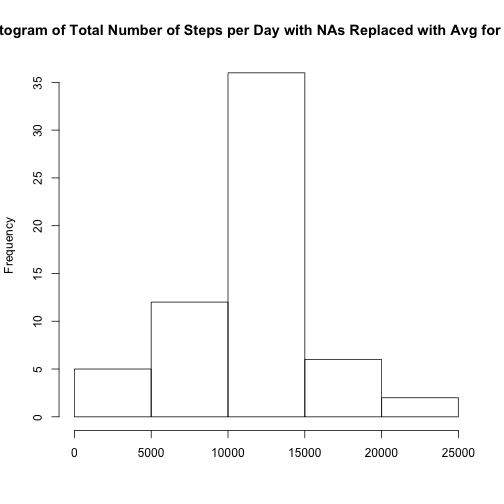
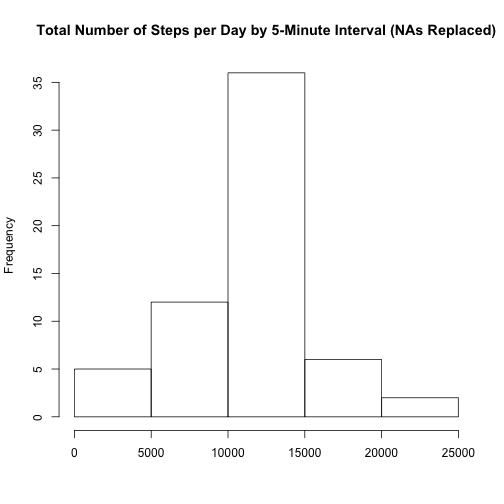
Clean up comments and histogram title.

Changed region(s): [[0.0, 0.0298, 1.0, 0.0893]]

diff --git a/PA1_template.html b/PA1_template.html
@@ -185,7 +185,6 @@ hljs.initHighlightingOnLoad();
 
 <pre><code class="r">options(scipen = 1, digits = 7)
 library(data.table)
-#data &lt;- read.csv(unzip(&quot;activity.zip&quot;))
 data &lt;- read.csv(&quot;activity.csv&quot;)
 data$day &lt;- as.Date(data$date, &quot;%Y-%m-%d&quot;)
 data$weekday &lt;- weekdays(data$day)
@@ -205,8 +204,7 @@ dt.clean &lt;- na.omit(dt)
 
 <p>Sum the steps for each day.</p>
 
-<pre><code class="r">#total.steps.by.day &lt;- tapply(data.noNA$steps, data.noNA$date, sum)
-total.steps.by.day &lt;- dt.clean[,sum(steps), by=date]
+<pre><code class="r">total.steps.by.day &lt;- dt.clean[,sum(steps), by=date]
 </code></pre>
 
 <p>Create a histogram of the mean number of steps per day.</p>
@@ -236,8 +234,7 @@ total.steps.by.day &lt;- dt.clean[,sum(steps), by=date]
 
 <p>Take the average number of steps by the interval across days.</p>
 
-<pre><code class="r">#steps.by.daily.interval &lt;- aggregate(steps ~ interval, data.noNA, FUN=&quot;mean&quot;)
-steps.by.daily.interval &lt;- dt.clean[,mean(steps), by=interval]
+<pre><code class="r">steps.by.daily.interval &lt;- dt.clean[,mean(steps), by=interval]
 with(steps.by.daily.interval, plot(interval, V1, type=&quot;l&quot;, 
                                    main=&quot;Average Daily Activity Pattern&quot;, 
                                    xlab=&quot;Interval (5 minute increment)&quot;,
@@ -280,10 +277,10 @@ total.steps.2 &lt;- dt.with.avg[,sum(steps), by=date]
 
 <p>Histogram with the total number of steps taken per day</p>
 
-<pre><code class="r">hist(total.steps.2$V1, main=&quot;Histogram of Total Number of Steps per Day with NAs Replaced with Avg for Interval&quot;, xlab=&quot;&quot;)
+<pre><code class="r">hist(total.steps.2$V1, main=&quot;Total Number of Steps per Day by 5-Minute Interval (NAs Replaced)&quot;, xlab=&quot;&quot;)
 </code></pre>
 
[2 lines of base64/hex data omitted]
 
 <p>Calculate the mean of the number of steps per day.</p>
 
@@ -310,7 +307,7 @@ The median moved only slightly due to the addition of additional values since th
 
 <h2>Are there differences in activity patterns between weekdays and weekends?</h2>
 
-<p>Split new data by weekday or weekend. Then Compute average steps per interval using new data. Identify if days are a weekday or a weekend.</p>
+<p>Convert the day type variable created above during the initial processing to a factor. Compute average steps per interval using new data then plot the data to compare weekdays with weekends.</p>
 
 <pre><code class="r">dt.with.avg$dayType &lt;- factor(dt.with.avg$dayType)
 interval.steps &lt;- dt.with.avg[,mean(steps), by=c(&quot;interval&quot;,&quot;dayType&quot;)]

diff --git a/PA1_template.md b/PA1_template.md
@@ -5,7 +5,6 @@
 ```r
 options(scipen = 1, digits = 7)
 library(data.table)
-#data <- read.csv(unzip("activity.zip"))
 data <- read.csv("activity.csv")
 data$day <- as.Date(data$date, "%Y-%m-%d")
 data$weekday <- weekdays(data$day)
@@ -27,7 +26,6 @@ dt.clean <- na.omit(dt)
 Sum the steps for each day.
 
 ```r
-#total.steps.by.day <- tapply(data.noNA$steps, data.noNA$date, sum)
 total.steps.by.day <- dt.clean[,sum(steps), by=date]
 ```
 
@@ -63,7 +61,6 @@ median(total.steps.by.day$V1)
 Take the average number of steps by the interval across days.
 
 ```r
-#steps.by.daily.interval <- aggregate(steps ~ interval, data.noNA, FUN="mean")
 steps.by.daily.interval <- dt.clean[,mean(steps), by=interval]
 with(steps.by.daily.interval, plot(interval, V1, type="l", 
                                    main="Average Daily Activity Pattern", 
@@ -114,7 +111,7 @@ total.steps.2 <- dt.with.avg[,sum(steps), by=date]
 Histogram with the total number of steps taken per day
 
 ```r
-hist(total.steps.2$V1, main="Histogram of Total Number of Steps per Day with NAs Replaced with Avg for Interval", xlab="")
+hist(total.steps.2$V1, main="Total Number of Steps per Day by 5-Minute Interval (NAs Replaced)", xlab="")
 ```
 
 ![plot of chunk unnamed-chunk-12](figure/unnamed-chunk-12.png) 
@@ -147,7 +144,7 @@ The median moved only slightly due to the addition of additional values since th
 
 ## Are there differences in activity patterns between weekdays and weekends?
 
-Split new data by weekday or weekend. Then Compute average steps per interval using new data. Identify if days are a weekday or a weekend.
+Convert the day type variable created above during the initial processing to a factor. Compute average steps per interval using new data then plot the data to compare weekdays with weekends.
 
 ```r
 dt.with.avg$dayType <- factor(dt.with.avg$dayType)
